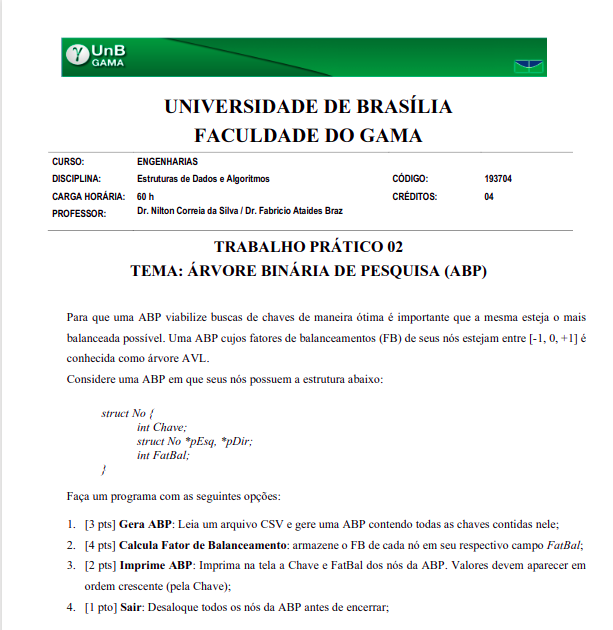
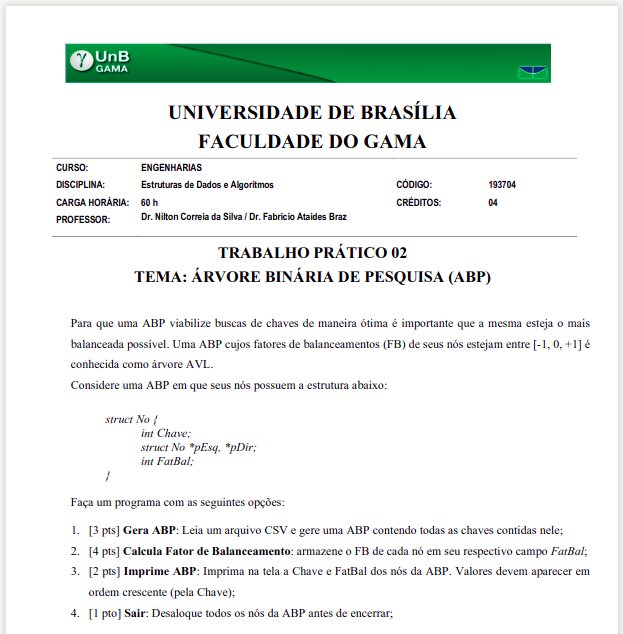
:memo: Só arrumando a imagem que tava errada

diff --git a/README.md b/README.md
@@ -16,7 +16,7 @@ Balance factor = Height_left_subtree - height_right_subtree
 |Leonardo Sampaio Barros|17/0038971|
 |Vinícius Angelo de Brito Vieira|19/0118059|
 
-## Trabalho pratico 1
+## binary-search-tree
 
 ---
 
